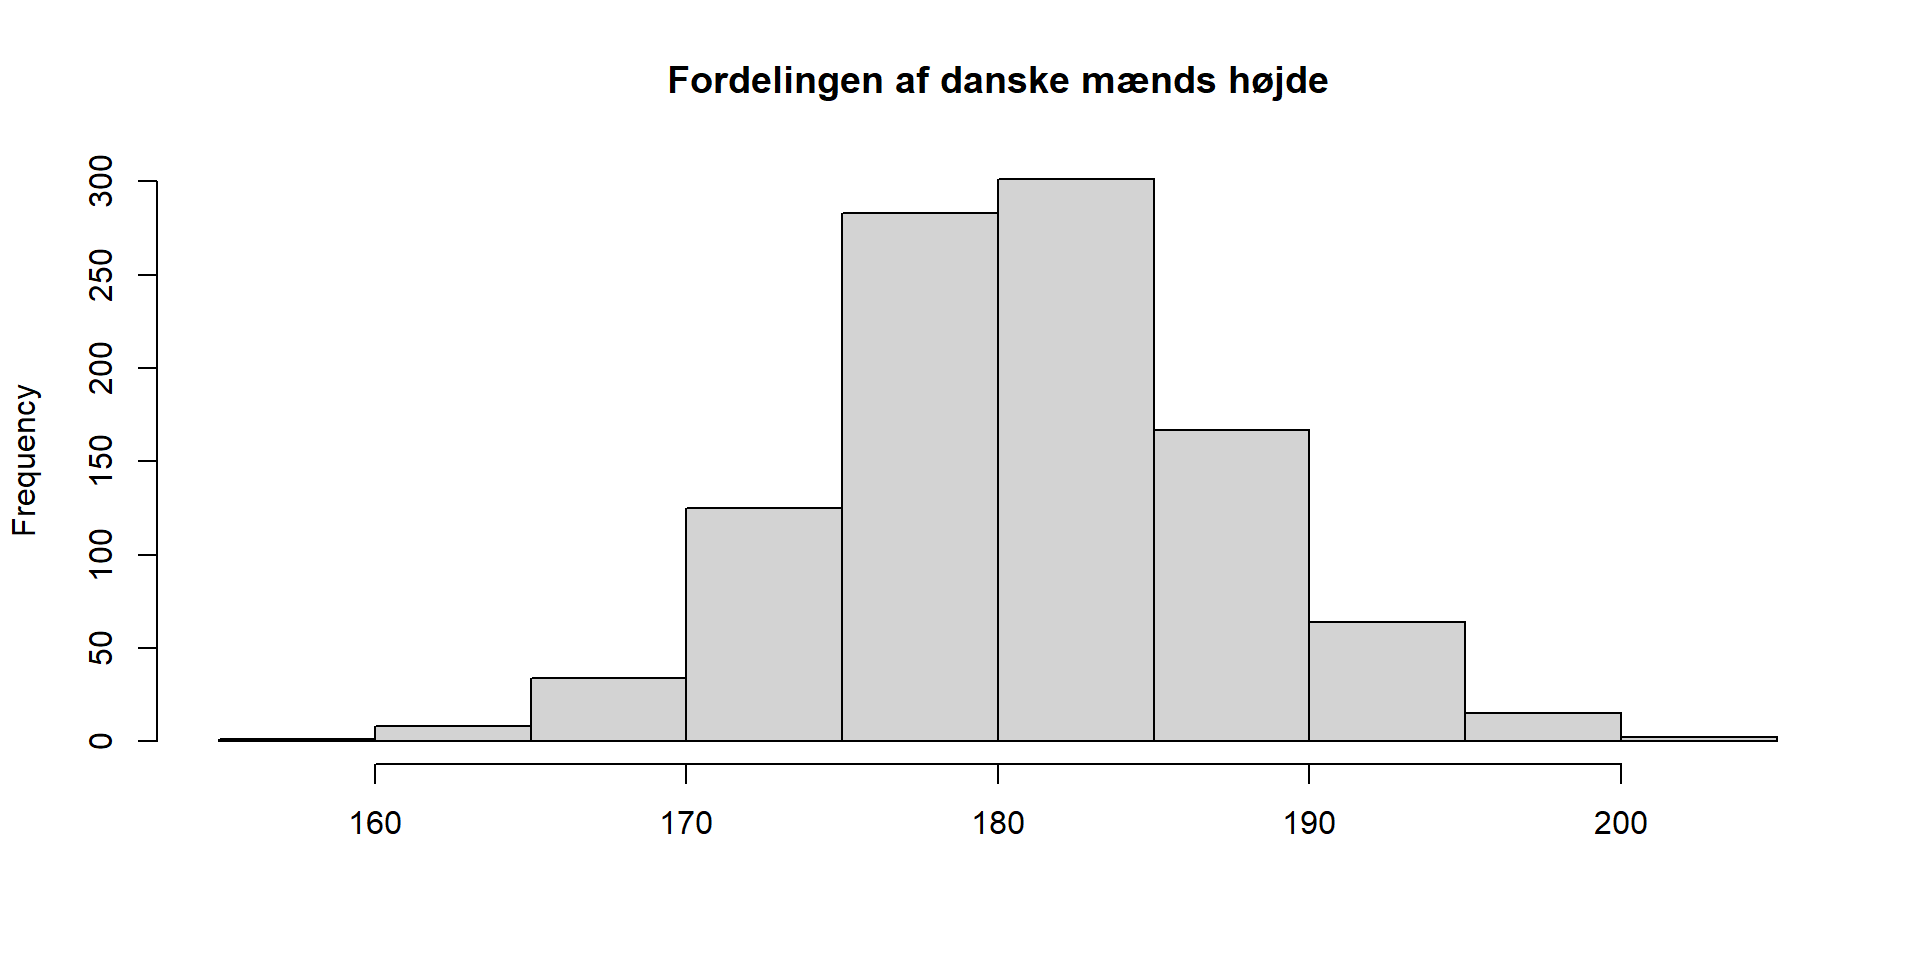
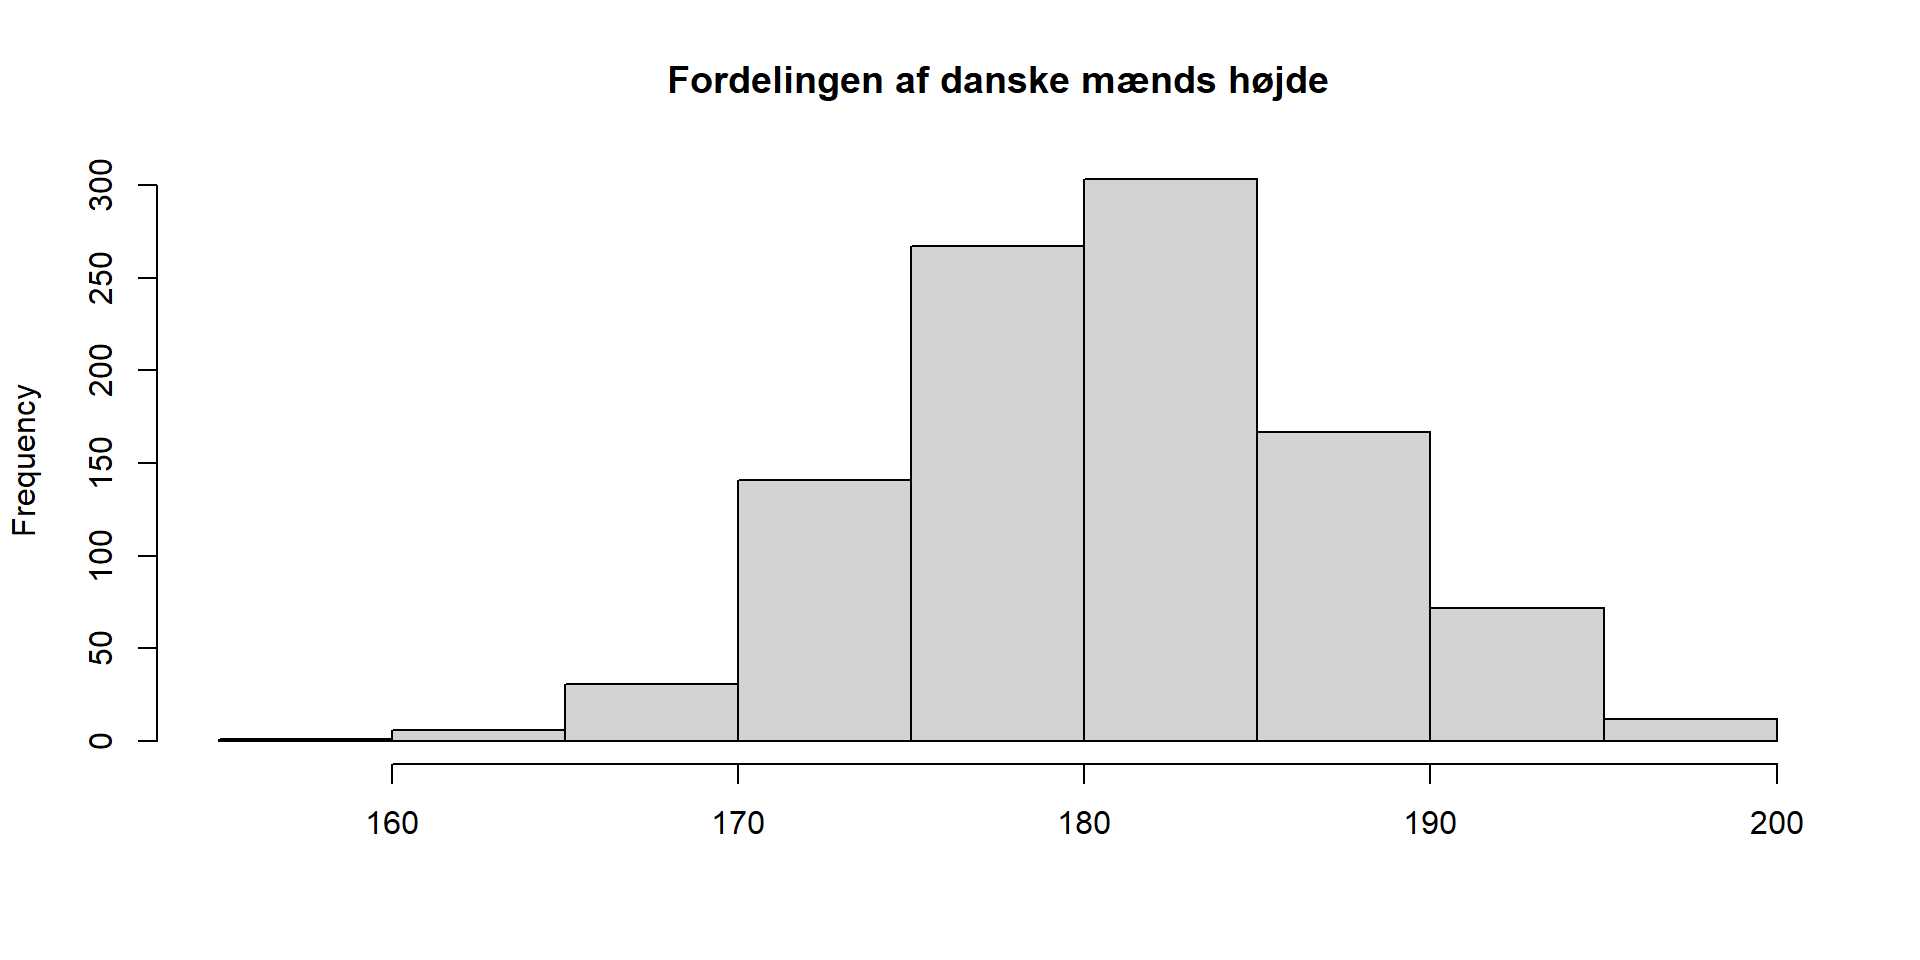
normalfordeling mangler nu kun to øvelser

diff --git a/docs/slides/normalfordelingen.html b/docs/slides/normalfordelingen.html
@@ -487,7 +487,7 @@
   };
 
   // Store cell data
-  globalThis.qwebrCellDetails = [{"code":"","id":1,"options":{"autorun":"false","classes":"","comment":"","context":"interactive","dpi":72,"editor-font-scale":"0.5","editor-max-height":"","editor-quick-suggestions":"false","editor-word-wrap":"true","fig-cap":"","fig-height":5,"fig-width":7,"label":"unnamed-chunk-1","layout":"horizontal","message":"true","out-height":"","out-width":"700px","output":"true","read-only":"false","results":"markup","warning":"true"}},{"code":"","id":2,"options":{"autorun":"false","classes":"","comment":"","context":"interactive","dpi":72,"editor-font-scale":"0.5","editor-max-height":"","editor-quick-suggestions":"false","editor-word-wrap":"true","fig-cap":"","fig-height":5,"fig-width":7,"label":"unnamed-chunk-2","layout":"horizontal","message":"true","out-height":"","out-width":"700px","output":"true","read-only":"false","results":"markup","warning":"true"}},{"code":"","id":3,"options":{"autorun":"false","classes":"","comment":"","context":"interactive","dpi":72,"editor-font-scale":"0.5","editor-max-height":"","editor-quick-suggestions":"false","editor-word-wrap":"true","fig-cap":"","fig-height":5,"fig-width":7,"label":"unnamed-chunk-3","layout":"horizontal","message":"true","out-height":"","out-width":"700px","output":"true","read-only":"false","results":"markup","warning":"true"}},{"code":"","id":4,"options":{"autorun":"false","classes":"","comment":"","context":"interactive","dpi":72,"editor-font-scale":"0.5","editor-max-height":"","editor-quick-suggestions":"false","editor-word-wrap":"true","fig-cap":"","fig-height":5,"fig-width":7,"label":"unnamed-chunk-4","layout":"horizontal","message":"true","out-height":"","out-width":"700px","output":"true","read-only":"false","results":"markup","warning":"true"}},{"code":"","id":5,"options":{"autorun":"false","classes":"","comment":"","context":"interactive","dpi":72,"editor-font-scale":"0.5","editor-max-height":"","editor-quick-suggestions":"false","editor-word-wrap":"true","fig-cap":"","fig-height":5,"fig-width":7,"label":"unnamed-chunk-5","layout":"horizontal","message":"true","out-height":"","out-width":"700px","output":"true","read-only":"false","results":"markup","warning":"true"}},{"code":"","id":6,"options":{"autorun":"false","classes":"","comment":"","context":"interactive","dpi":72,"editor-font-scale":"0.5","editor-max-height":"","editor-quick-suggestions":"false","editor-word-wrap":"true","fig-cap":"","fig-height":5,"fig-width":7,"label":"unnamed-chunk-6","layout":"horizontal","message":"true","out-height":"","out-width":"700px","output":"true","read-only":"false","results":"markup","warning":"true"}},{"code":"","id":7,"options":{"autorun":"false","classes":"","comment":"","context":"interactive","dpi":72,"editor-font-scale":"0.5","editor-max-height":"","editor-quick-suggestions":"false","editor-word-wrap":"true","fig-cap":"","fig-height":5,"fig-width":7,"label":"unnamed-chunk-7","layout":"horizontal","message":"true","out-height":"","out-width":"700px","output":"true","read-only":"false","results":"markup","warning":"true"}},{"code":"","id":8,"options":{"autorun":"false","classes":"","comment":"","context":"interactive","dpi":72,"editor-font-scale":"0.5","editor-max-height":"","editor-quick-suggestions":"false","editor-word-wrap":"true","fig-cap":"","fig-height":5,"fig-width":7,"label":"unnamed-chunk-8","layout":"horizontal","message":"true","out-height":"","out-width":"700px","output":"true","read-only":"false","results":"markup","warning":"true"}},{"code":"","id":9,"options":{"autorun":"false","classes":"","comment":"","context":"interactive","dpi":72,"editor-font-scale":"0.5","editor-max-height":"","editor-quick-suggestions":"false","editor-word-wrap":"true","fig-cap":"","fig-height":5,"fig-width":7,"label":"unnamed-chunk-9","layout":"horizontal","message":"true","out-height":"","out-width":"700px","output":"true","read-only":"false","results":"markup","warning":"true"}},{"code":"","id":10,"options":{"autorun":"false","classes":"","comment":"","context":"interactive","dpi":72,"editor-font-scale":"0.5","editor-max-height":"","editor-quick-suggestions":"false","editor-word-wrap":"true","fig-cap":"","fig-height":5,"fig-width":7,"label":"unnamed-chunk-10","layout":"horizontal","message":"true","out-height":"","out-width":"700px","output":"true","read-only":"false","results":"markup","warning":"true"}},{"code":"","id":11,"options":{"autorun":"false","classes":"","comment":"","context":"interactive","dpi":72,"editor-font-scale":"0.5","editor-max-height":"","editor-quick-suggestions":"false","editor-word-wrap":"true","fig-cap":"","fig-height":5,"fig-width":7,"label":"unnamed-chunk-11","layout":"horizontal","message":"true","out-height":"","out-width":"700px","output":"true","read-only":"false","results":"markup","warning":"true"}},{"code":"","id":12,"options":{"autorun":"false","classes":"","comment":"","context":"interactive","dpi":72,"editor-font-scale":"0.5","editor-max-height":"","editor-quick-suggestions":"false","editor-word-wrap":"true","fig-cap":"","fig-height":5,"fig-width":7,"label":"unnamed-chunk-12","layout":"horizontal","message":"true","out-height":"","out-width":"700px","output":"true","read-only":"false","results":"markup","warning":"true"}}];
+  globalThis.qwebrCellDetails = [{"code":"","id":1,"options":{"autorun":"false","classes":"","comment":"","context":"interactive","dpi":72,"editor-font-scale":"0.5","editor-max-height":"","editor-quick-suggestions":"false","editor-word-wrap":"true","fig-cap":"","fig-height":5,"fig-width":7,"label":"unnamed-chunk-1","layout":"horizontal","message":"true","out-height":"","out-width":"700px","output":"true","read-only":"false","results":"markup","warning":"true"}},{"code":"","id":2,"options":{"autorun":"false","classes":"","comment":"","context":"interactive","dpi":72,"editor-font-scale":"0.5","editor-max-height":"","editor-quick-suggestions":"false","editor-word-wrap":"true","fig-cap":"","fig-height":5,"fig-width":7,"label":"unnamed-chunk-2","layout":"horizontal","message":"true","out-height":"","out-width":"700px","output":"true","read-only":"false","results":"markup","warning":"true"}},{"code":"","id":3,"options":{"autorun":"false","classes":"","comment":"","context":"interactive","dpi":72,"editor-font-scale":"0.5","editor-max-height":"","editor-quick-suggestions":"false","editor-word-wrap":"true","fig-cap":"","fig-height":5,"fig-width":7,"label":"unnamed-chunk-3","layout":"horizontal","message":"true","out-height":"","out-width":"700px","output":"true","read-only":"false","results":"markup","warning":"true"}},{"code":"","id":4,"options":{"autorun":"false","classes":"","comment":"","context":"interactive","dpi":72,"editor-font-scale":"0.5","editor-max-height":"","editor-quick-suggestions":"false","editor-word-wrap":"true","fig-cap":"","fig-height":5,"fig-width":7,"label":"unnamed-chunk-4","layout":"horizontal","message":"true","out-height":"","out-width":"700px","output":"true","read-only":"false","results":"markup","warning":"true"}},{"code":"","id":5,"options":{"autorun":"false","classes":"","comment":"","context":"interactive","dpi":72,"editor-font-scale":"0.5","editor-max-height":"","editor-quick-suggestions":"false","editor-word-wrap":"true","fig-cap":"","fig-height":5,"fig-width":7,"label":"unnamed-chunk-5","layout":"horizontal","message":"true","out-height":"","out-width":"700px","output":"true","read-only":"false","results":"markup","warning":"true"}},{"code":"","id":6,"options":{"autorun":"false","classes":"","comment":"","context":"interactive","dpi":72,"editor-font-scale":"0.5","editor-max-height":"","editor-quick-suggestions":"false","editor-word-wrap":"true","fig-cap":"","fig-height":5,"fig-width":7,"label":"unnamed-chunk-6","layout":"horizontal","message":"true","out-height":"","out-width":"700px","output":"true","read-only":"false","results":"markup","warning":"true"}},{"code":"","id":7,"options":{"autorun":"false","classes":"","comment":"","context":"interactive","dpi":72,"editor-font-scale":"0.5","editor-max-height":"","editor-quick-suggestions":"false","editor-word-wrap":"true","fig-cap":"","fig-height":5,"fig-width":7,"label":"unnamed-chunk-7","layout":"horizontal","message":"true","out-height":"","out-width":"700px","output":"true","read-only":"false","results":"markup","warning":"true"}},{"code":"","id":8,"options":{"autorun":"false","classes":"","comment":"","context":"interactive","dpi":72,"editor-font-scale":"0.5","editor-max-height":"","editor-quick-suggestions":"false","editor-word-wrap":"true","fig-cap":"","fig-height":5,"fig-width":7,"label":"unnamed-chunk-8","layout":"horizontal","message":"true","out-height":"","out-width":"700px","output":"true","read-only":"false","results":"markup","warning":"true"}},{"code":"","id":9,"options":{"autorun":"false","classes":"","comment":"","context":"interactive","dpi":72,"editor-font-scale":"0.5","editor-max-height":"","editor-quick-suggestions":"false","editor-word-wrap":"true","fig-cap":"","fig-height":5,"fig-width":7,"label":"unnamed-chunk-9","layout":"horizontal","message":"true","out-height":"","out-width":"700px","output":"true","read-only":"false","results":"markup","warning":"true"}},{"code":"","id":10,"options":{"autorun":"false","classes":"","comment":"","context":"interactive","dpi":72,"editor-font-scale":"0.5","editor-max-height":"","editor-quick-suggestions":"false","editor-word-wrap":"true","fig-cap":"","fig-height":5,"fig-width":7,"label":"unnamed-chunk-10","layout":"horizontal","message":"true","out-height":"","out-width":"700px","output":"true","read-only":"false","results":"markup","warning":"true"}},{"code":"","id":11,"options":{"autorun":"false","classes":"","comment":"","context":"interactive","dpi":72,"editor-font-scale":"0.5","editor-max-height":"","editor-quick-suggestions":"false","editor-word-wrap":"true","fig-cap":"","fig-height":5,"fig-width":7,"label":"unnamed-chunk-11","layout":"horizontal","message":"true","out-height":"","out-width":"700px","output":"true","read-only":"false","results":"markup","warning":"true"}},{"code":"","id":12,"options":{"autorun":"false","classes":"","comment":"","context":"interactive","dpi":72,"editor-font-scale":"0.5","editor-max-height":"","editor-quick-suggestions":"false","editor-word-wrap":"true","fig-cap":"","fig-height":5,"fig-width":7,"label":"unnamed-chunk-12","layout":"horizontal","message":"true","out-height":"","out-width":"700px","output":"true","read-only":"false","results":"markup","warning":"true"}},{"code":"","id":13,"options":{"autorun":"false","classes":"","comment":"","context":"interactive","dpi":72,"editor-font-scale":"0.5","editor-max-height":"","editor-quick-suggestions":"false","editor-word-wrap":"true","fig-cap":"","fig-height":5,"fig-width":7,"label":"unnamed-chunk-13","layout":"horizontal","message":"true","out-height":"","out-width":"700px","output":"true","read-only":"false","results":"markup","warning":"true"}},{"code":"","id":14,"options":{"autorun":"false","classes":"","comment":"","context":"interactive","dpi":72,"editor-font-scale":"0.5","editor-max-height":"","editor-quick-suggestions":"false","editor-word-wrap":"true","fig-cap":"","fig-height":5,"fig-width":7,"label":"unnamed-chunk-14","layout":"horizontal","message":"true","out-height":"","out-width":"700px","output":"true","read-only":"false","results":"markup","warning":"true"}},{"code":"","id":15,"options":{"autorun":"false","classes":"","comment":"","context":"interactive","dpi":72,"editor-font-scale":"0.5","editor-max-height":"","editor-quick-suggestions":"false","editor-word-wrap":"true","fig-cap":"","fig-height":5,"fig-width":7,"label":"unnamed-chunk-15","layout":"horizontal","message":"true","out-height":"","out-width":"700px","output":"true","read-only":"false","results":"markup","warning":"true"}}];
 
   </script>
   <script type="module">
@@ -2069,11 +2069,11 @@ globalThis.qwebrCreateMonacoEditorInstance = function (cellData) {
 <h2>Hvordan kan vi beskrive alle de her observationer?</h2>
 <div class="cell">
 <div class="cell-output cell-output-stdout">
-<pre><code> [1] 198.3 185.5 179.8 176.2 191.5 182.3 176.4 190.2 187.2 189.3 172.9 177.4
-[13] 174.3 170.4 177.8 177.6 183.9 187.4 186.3 174.1 188.7 166.1 187.1 181.3
-[25] 185.2 179.9 186.2 176.9 189.5 179.2 189.1 186.5 185.3 167.0 175.5 179.7
-[37] 167.4 179.9 165.1 179.0 183.3 185.2 181.7 185.8 177.6 177.3 186.0 182.5
-[49] 179.2 187.9</code></pre>
+<pre><code> [1] 190.0 174.0 181.4 181.1 167.6 175.3 175.6 184.9 175.6 180.5 174.9 186.0
+[13] 180.3 181.6 177.3 183.3 182.2 191.6 183.0 185.6 184.6 167.7 177.0 183.4
+[25] 175.0 181.4 163.9 185.8 176.7 179.4 171.9 183.0 179.5 189.1 183.8 169.4
+[37] 177.7 182.6 179.4 184.8 177.1 181.5 188.2 184.4 171.0 183.3 196.0 182.4
+[49] 179.1 180.9</code></pre>
 </div>
 </div>
 <div class="fragment">
@@ -2812,39 +2812,59 @@ f(x) = \frac{1}{\sqrt{2\pi\sigma^2}} e^{-\frac{(x-\mu)^2}{2\sigma^2}}
 <div id="qwebr-insertion-location-12"></div>
 <noscript>Please enable JavaScript to experience the dynamic code cell content on this page.</noscript>
 </div></div>
-<aside class="notes">
-<p>pnorm((10-12.5)/3.2)</p>
-<style type="text/css">
-        span.MJX_Assistive_MathML {
-          position:absolute!important;
-          clip: rect(1px, 1px, 1px, 1px);
-          padding: 1px 0 0 0!important;
-          border: 0!important;
-          height: 1px!important;
-          width: 1px!important;
-          overflow: hidden!important;
-          display:block!important;
-      }</style></aside>
 </section>
-<section id="øvelse---manglende-værdi-ved-given-procentil" class="slide level2">
-<h2>Øvelse - Manglende værdi ved given procentil:</h2>
-<p>En normalfordelt variabel har middelværdi <span class="math inline">\(\mu = 50\)</span> og standardafvigelse <span class="math inline">\(\sigma = 8\)</span>. Hvilken værdi <span class="math inline">\(x\)</span> er der tale om, hvis 90% af observationerne er mindre end denne værdi?</p>
-<p>P(X&lt;x) = 0.9 qnorm(0.9)</p>
-<div class="cell">
-<div class="cell-output cell-output-stdout">
-<pre><code>[1] 60.25241</code></pre>
+<section id="manglende-værdi-kendt-procentil" class="slide level2">
+<h2>Manglende værdi, kendt procentil:</h2>
+<div class="columns">
+<div class="column">
+<p>En normalfordelt variabel har <span class="math inline">\(\mu = 50\)</span> og <span class="math inline">\(\sigma = 8\)</span>. For hvilken værdi y er 90% af observationerne &lt; y?</p>
+<div class="fragment">
+<p>Find 90%-kvantilen for X ~ N(50,8)</p>
 </div>
+<div class="fragment">
+<p><span class="math inline">\(P(Z&lt; \frac{y-\mu}{\sigma}) = 0.9\)</span></p>
 </div>
+<div class="fragment">
+<p><span class="math inline">\(P(Z&lt; \frac{y-50}{8}) = 0.9\)</span></p>
+</div>
+<div class="fragment">
+<p>qnorm(0.9) = 1.2816 <span class="math inline">\(\frac{y-50}{8} = 1.2816\)</span>, isoler y</p>
+</div>
+</div><div class="column">
+<div id="qwebr-insertion-location-13"></div>
+<noscript>Please enable JavaScript to experience the dynamic code cell content on this page.</noscript>
+</div></div>
 </section>
-<section id="øvelse---manglende-middelværdi-anden-variant" class="slide level2">
-<h2>Øvelse - Manglende middelværdi (anden variant):</h2>
-<p>For en normalfordeling gælder det at <span class="math inline">\(\sigma = 4.5\)</span> og at 75% af værdierne er mindre end 18. Hvad er middelværdien <span class="math inline">\(\mu\)</span>?</p>
-<p>P(X&lt;18) = 0.75</p>
-<p>(18-mu)/sigma = qnorm(0.75) (18-mu)/4.5 = qnorm(0.75) 18-mu = 4.5<em>qnorm(0.75) 18 - 4.5</em>qnorm(0.75) = mu</p>
+<section id="manglende-middelværdi-variant-2" class="slide level2">
+<h2>Manglende middelværdi (variant 2):</h2>
+<div class="columns">
+<div class="column">
+<p>For en normalfordeling gælder det at <span class="math inline">\(\sigma = 4.5\)</span> og 75% af værdierne er &gt; 18. Hvad er <span class="math inline">\(\mu\)</span>?</p>
+<div class="fragment">
+<p>P(X&gt;18) = 0.75</p>
+</div>
+<div class="fragment">
+<p>P(X&lt;18) = 1 - 0.75 = 0.25</p>
+</div>
+<div class="fragment">
+<p>Standardiser: <span class="math inline">\(P(Z &lt; \frac{18-\mu}{\sigma}) = 0.25\)</span></p>
+</div>
+<div class="fragment">
+<p><span class="math inline">\(\frac{18-\mu}{\sigma} = qnorm(.25) = -0.6744898\)</span> Indsæt <span class="math inline">\(\sigma = 4.5\)</span> og isoler <span class="math inline">\(\mu\)</span></p>
+</div>
+</div><div class="column">
+<div id="qwebr-insertion-location-14"></div>
+<noscript>Please enable JavaScript to experience the dynamic code cell content on this page.</noscript>
+</div></div>
 </section>
-<section id="øvelse---manglende-interval-grænse" class="slide level2">
-<h2>Øvelse - Manglende interval-grænse:</h2>
+<section id="manglende-interval-grænse" class="slide level2">
+<h2>Manglende interval-grænse</h2>
+<div class="columns">
+<div class="column">
 <p>En normalfordelt population har <span class="math inline">\(\mu = 100\)</span> og <span class="math inline">\(\sigma = 15\)</span>. Hvis 80% af værdierne ligger mellem 85 og en øvre grænse <span class="math inline">\(x\)</span>, hvad er da denne øvre grænse?</p>
+<p>eller find z således at: P(85 &lt; X &lt; x) = 0.8</p>
+<p>1 - 0.8 = 0.2 ligger udenfor intervallet Hvilken andel ligger under 85?</p>
+<p>P(X&lt;85) = 0.8 <span class="math inline">\(P(Z&lt; \frac{85-\mu}{\sigma}) = 0.8\)</span> <span class="math inline">\(\frac{85-\mu}{\sigma} = qnorm(0.8)\)</span> 0.2 - denne andel skal ligge over.</p>
 <p>Vi leder efter et interval. Det starter ved 85. Vi skal finde ud af hvad den øvre grænse er. 100-80 = 20% ligger uden for intervallet. Hvor mange af værdierne ligger under 85? 20% minus denne værdi skal ligge over den øvre grænse vi leder efter.</p>
 <p>P(X&lt;85) X &lt; (85-100)/15</p>
 <div class="cell">
@@ -2852,6 +2872,13 @@ f(x) = \frac{1}{\sqrt{2\pi\sigma^2}} e^{-\frac{(x-\mu)^2}{2\sigma^2}}
 <pre><code>[1] 126.0293</code></pre>
 </div>
 </div>
+</div><div class="column">
+<div id="qwebr-insertion-location-15"></div>
+<noscript>Please enable JavaScript to experience the dynamic code cell content on this page.</noscript>
+</div></div>
+</section>
+<section id="lidt-mer" class="slide level2">
+<h2>lidt mer</h2>
 <p>Husk - vi bruger x-bar når vi ikke kender den sande mu.</p>
 <p>Pointen om at pnorm og qnorm giver os MINDRE END!</p>
 <p>tallet 1.96</p>
